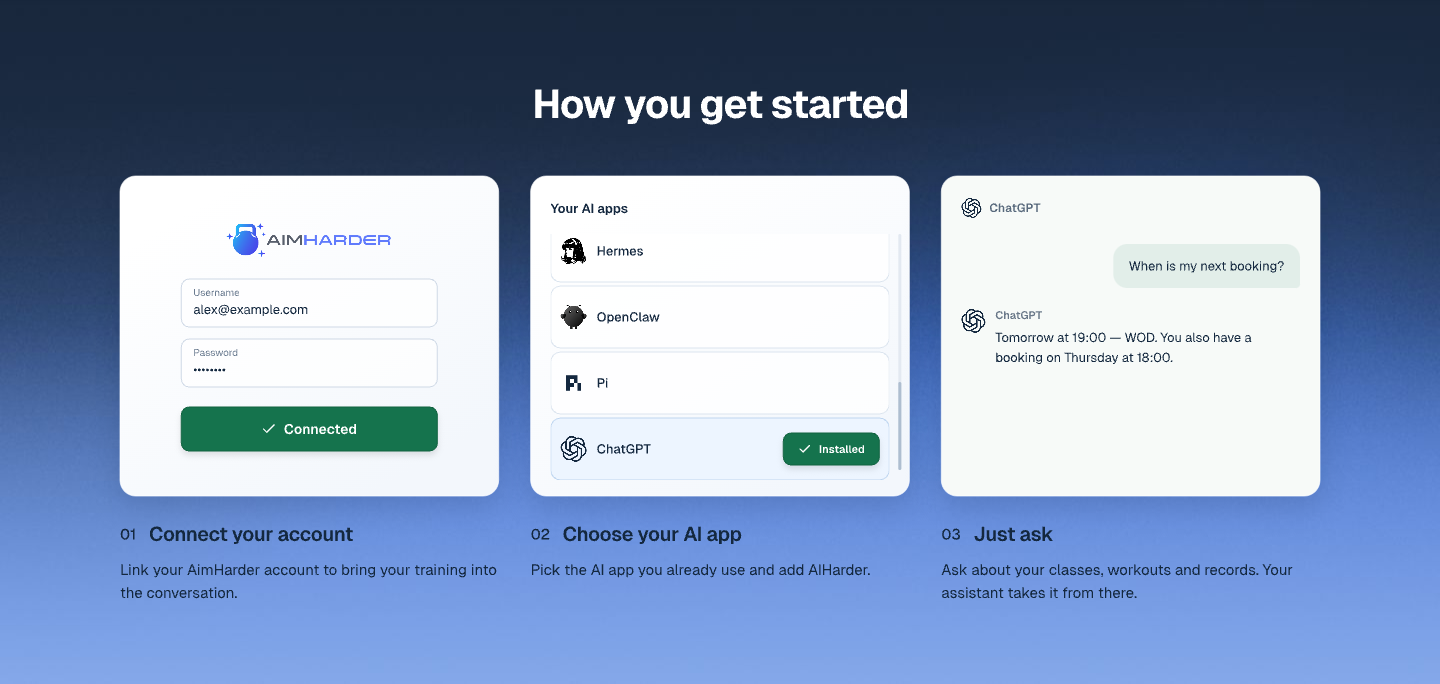
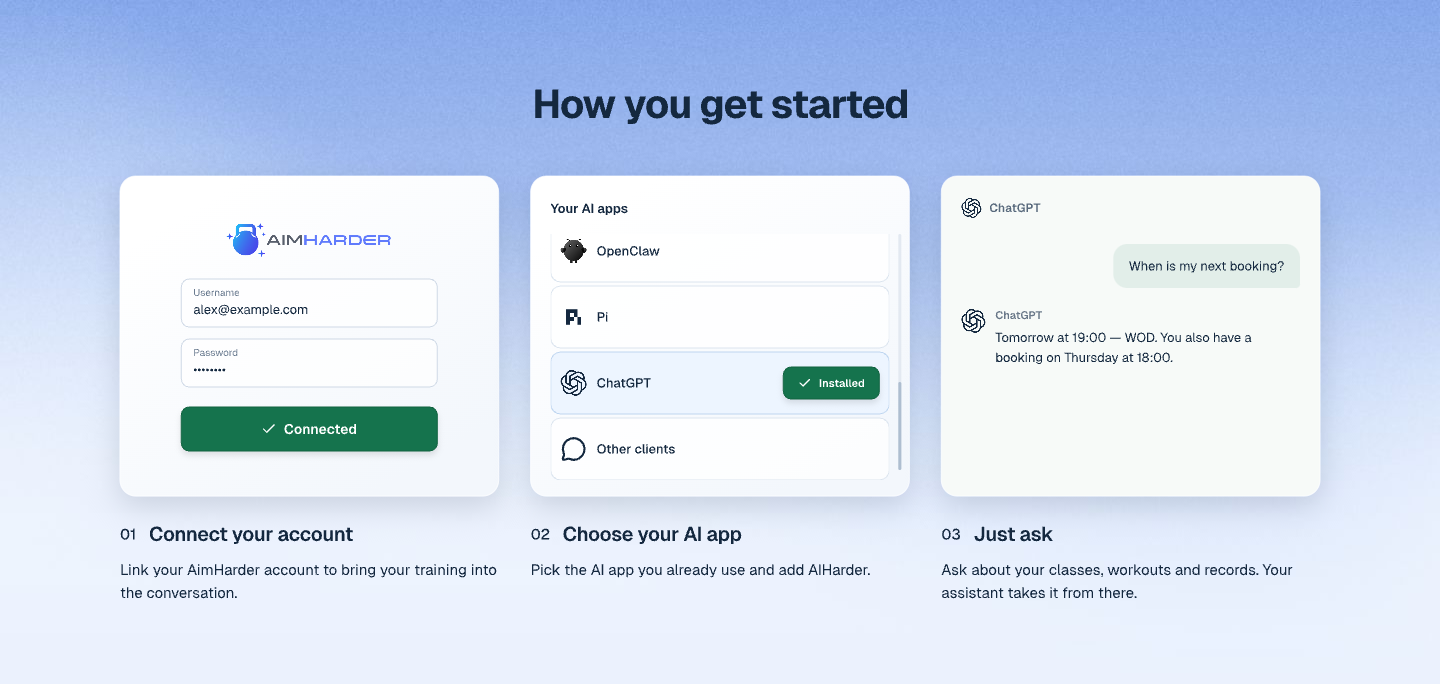
design: refine How to background cursor and client list #95

diff --git a/design/home-study/hero-motion-prototype.html b/design/home-study/hero-motion-prototype.html
@@ -6,4 +6,4 @@
 @media(max-width:1320px){.kettle{left:-60px;top:116px;width:300px;height:344px}.kettle img{width:435.13px;height:435.13px;left:-68px;top:-57.79px}.answer{width:300px}.ground{left:-36px;top:450px;width:266px}.ground::after{left:34px;width:198px}}
 @media(max-width:1150px){.hero{grid-template-columns:46% 1fr;gap:40px}h1{font-size:50px}.brand{font-size:20px}.utilities{gap:16px}.nav{gap:24px}.question{width:270px}.answer{width:300px}.kettle{left:-70px}.apps{gap:12px}.app{font-size:12px;gap:5px}}
 @media(max-width:850px){.container{width:calc(100% - 40px)}.header-inner{grid-template-columns:1fr auto;min-height:80px}.nav{display:none}.utilities{gap:16px}.language{display:none}.hero{display:block;padding-top:28px}.pitch{max-width:532px}.scene{height:520px;margin:32px auto 0;max-width:596px}.kettle{left:0;top:126px}.ground{top:460px}.question{right:0}.answer{right:0}.apps{flex-wrap:wrap}h1{font-size:44px}.header-signin{min-width:100px;padding:12px 18px}.brand{font-size:17px}.brand img{width:35px;height:40px}}
[2 lines of base64/hex data omitted]

diff --git a/design/home-study/how-to.css b/design/home-study/how-to.css
@@ -1,34 +1,35 @@
 .how-band {
-  --how-top: #14283f;
-  --how-bottom: #7ba9ef;
+  --how-heading: #14283f;
   --how-caption: #14283f;
   --how-description: #14283f;
   position: relative;
   isolation: isolate;
   overflow: hidden;
   padding: 80px 0;
-  background: linear-gradient(180deg, var(--how-top), var(--how-bottom));
+  background: #fff;
 }
 [data-theme=dark] .how-band {
-  --how-top: #080f1a;
-  --how-bottom: #174678;
+  --how-heading: #fff;
   --how-caption: #fff;
+  background: #0d1521;
   --how-description: #c8d8ec;
 }
-.how-backdrop { position: absolute; inset: 0; z-index: -2; opacity: .58; }
-[data-theme=dark] .how-backdrop { opacity: .4; }
+.how-backdrop { position: absolute; inset: 0; z-index: -2; opacity: .72; transform: scaleY(-1); background: linear-gradient(180deg, #e8f2ff, #87b8f1); }
+.how-backdrop .grainient-canvas { position: absolute; inset: 0; display: block; width: 100%; height: 100%; }
+[data-theme=dark] .how-backdrop { opacity: .55; background: linear-gradient(180deg, #0d1521, #174678); }
 .how-band::before {
   content: '';
   position: absolute;
   inset: 0;
   z-index: -1;
   pointer-events: none;
-  background: linear-gradient(180deg, var(--how-top), transparent 48%, var(--how-bottom));
+  background: linear-gradient(0deg, #e8f2ff, #e8f2ff00);
 }
+[data-theme=dark] .how-band::before { background: linear-gradient(0deg, #0d1521, #0d152100 22%); }
 .how-inner { width: calc(100% - 80px); max-width: 1200px; margin: auto; }
 .how-heading {
   margin: 0 0 48px;
-  color: #fff;
+  color: var(--how-heading);
   font-size: 40px;
   font-weight: 700;
   letter-spacing: -1px;
@@ -80,7 +81,7 @@
 .demo-action[data-action=success] { border-color: #116340; background: #15734d; color: #fff; }
 .demo-action .icon { width: 16px; height: 16px; }
 .demo-action[data-action=loading] .icon { animation: how-spin .8s linear infinite; }
-.demo-cursor { position: absolute; left: 0; top: 0; width: 25px; height: 25px; z-index: 5; pointer-events: none; filter: drop-shadow(0 1px 1px #fff) drop-shadow(0 2px 2px #14283f3d); transform-origin: 4px 3px; }
+.demo-cursor { position: absolute; left: 0; top: 0; width: 24px; height: 30px; z-index: 5; pointer-events: none; filter: drop-shadow(0 1px 1px #14283f40); transform-origin: 4px 3px; }
 .services-demo { padding: 20px 20px 0; }
 .services-heading { margin: 0 0 12px; font-size: 13px; font-weight: 600; line-height: 24px; }
 .services-window { height: 246px; overflow: hidden; position: relative; mask-image: linear-gradient(#000 0%, #000 94%, transparent); }
@@ -88,6 +89,7 @@
 .service-option { display: flex; align-items: center; gap: 10px; flex: none; height: 62px; padding: 10px; border: 1px solid #dce5ef; border-radius: 10px; background: #ffffffc9; }
 .service-option.is-hovered { background: #edf5ff; border-color: #bfd6f0; }
 .service-symbol { width: 26px; height: 26px; object-fit: contain; flex: none; }
+.service-symbol.icon { background-color: #14283f; }
 .service-name { font-size: 13px; font-weight: 500; white-space: nowrap; }
 .service-action { margin-left: auto; flex: none; width: 96px; height: 32px; font-size: 11px; opacity: 0; }
 .service-action .icon { width: 14px; height: 14px; }

diff --git a/design/home-study/how-to-prototype.js b/design/home-study/how-to-prototype.js
@@ -6,7 +6,7 @@ const inspect = params.has('howAt') ? Math.max(0, +params.get('howAt') || 0) : n
 const still = params.get('motion') === 'off' || reduced.matches || inspect !== null;
 const symbol = key => `assets/apps/${key === 'hermes' || key === 'openclaw' ? `${key}-selfhst-light.svg` : key === 'pi' ? 'pi-mono-light.png' : `${key}-light.png`}`;
 const icon = name => `<i class="icon" style="--icon:url('./assets/lucide/${name}.svg')" aria-hidden="true"></i>`;
-const cursor = `<img class="demo-cursor" src="assets/lucide/mouse-pointer-2.svg" alt="">`;
+const cursor = `<img class="demo-cursor" src="assets/cursor-macos-style.svg" alt="">`;
 section.innerHTML = `
   <div id="how-grainient" class="how-backdrop" aria-hidden="true"></div>
   <div class="how-inner">
@@ -26,7 +26,7 @@ section.innerHTML = `
       <figure class="how-step">
         <div class="how-preview" id="install-preview" role="img" aria-label="Illustrative animation: scroll through AI apps, choose ChatGPT, and install AIHarder.">
           <div class="services-demo" aria-hidden="true"><p class="services-heading">Your AI apps</p><div class="services-window"><div class="services-list">
-            ${[['claude','Claude'],['hermes','Hermes'],['openclaw','OpenClaw'],['pi','Pi'],['chatgpt','ChatGPT']].map(([key,name]) => `<div class="service-option" data-app="${key}"><img class="service-symbol" src="${symbol(key)}" alt=""><span class="service-name">${name}</span>${key === 'chatgpt' ? '<div class="demo-action service-action" data-action="ready">Install</div>' : ''}</div>`).join('')}
+            ${[['claude','Claude'],['hermes','Hermes'],['openclaw','OpenClaw'],['pi','Pi'],['chatgpt','ChatGPT'],['other','Other clients']].map(([key,name]) => `<div class="service-option" data-app="${key}">${key === 'other' ? '<i class="service-symbol icon" style="--icon:url(\'./assets/lucide/message-circle.svg\')"></i>' : `<img class="service-symbol" src="${symbol(key)}" alt="">`}<span class="service-name">${name}</span>${key === 'chatgpt' ? '<div class="demo-action service-action" data-action="ready">Install</div>' : ''}</div>`).join('')}
           </div></div></div><div class="service-track" aria-hidden="true"><div class="service-thumb"></div></div>${cursor}
         </div>
         <figcaption><div class="how-step-title"><span class="how-step-number">02</span><h3>Choose your AI app</h3></div><p class="how-step-description">Pick the AI app you already use and add AIHarder.</p></figcaption>

diff --git a/design/home-study/how-background-mount.js b/design/home-study/how-background-mount.js
@@ -7,11 +7,11 @@ const still = params.get('motion') === 'off' || params.has('howAt') ||
   !document.querySelector('#motion-status') || matchMedia('(prefers-reduced-motion: reduce)').matches;
 container.dataset.renderer = 'css-fallback';
 const dispose = mountGrainient(container, {
-  colors: dark ? ['#080f1a', '#174678'] : ['#14283f', '#0065e0'],
+  colors: [dark ? '#0d1521' : '#ffffff', '#0065e0'],
   angle: 180, flow: .8, silk: .5, grainAmount: .08,
   scale: 1.4, grainSize: 1.3, saturation: .99, stir: .95,
-  clickSwirl: false, intro: false, lightMode: false,
-  speed: still ? 0 : .65, grainAnimated: !still, interactive: false, dpr: 1,
+  clickSwirl: false, intro: false, lightMode: !dark,
+  speed: still ? 0 : 1, grainAnimated: !still, interactive: false, dpr: 1,
 });
 if (dispose) {
   container.dataset.renderer = 'webgl2';

diff --git a/design/home-study/how-to-study.md b/design/home-study/how-to-study.md
@@ -17,10 +17,10 @@ Full archived Refero style/screen records were retrieved before implementation. 
 
 ## Decisions
 
-- Reuse the app-integrated Grainient renderer and notice for this site's How to background. Light starts at navy `#14283f` and reaches the hero lower-edge blue, sampled around `#7ba9ef`. Dark uses a deeper `#080f1a` to `#174678` range. The title is white. Step captions use dark ink on the lighter lower Light area and light text in Dark.
+- Reuse the app-integrated Grainient renderer and notice for this site's How to background. The latest owner revision supersedes the first navy band: reuse the hero palette, alpha and wash, inverted vertically. Light runs from blue to pale blue, with a navy `#14283f` title. Dark also inverts the hero field and retains white text for contrast. Step captions use dark ink on the lighter lower Light area and light text in Dark.
 - Three equal columns share the existing 1200px content well. Each preview is 320px high, with a clear/light UI surface. Captions place the step number and title together, followed by provisional copy. The title has no subtitle.
 - Step 1: original AimHarder logo, a fictional `alex@example.com` username, password bullets, disabled → ready → loading → green/check action. The illustration cursor clicks the ready control. Content fades before values reset.
-- Step 2: a clipped five-service list starts with ChatGPT below the viewport. A cursor scrolls the list, hovers ChatGPT to reveal Install, clicks, then shows loading and green/check success. It resets through a fade.
+- Step 2: a clipped six-row list starts with ChatGPT below the viewport. “Other clients” follows ChatGPT with a generic Lucide message-circle. A cursor scrolls the list, hovers ChatGPT to reveal Install, clicks, then shows loading and green/check success. It resets through a fade.
 - Step 3: ChatGPT, Claude and Hermes each show a question, thinking dots and a plain-text assistant answer with the correct avatar. Provider tints distinguish them. Both messages fade before the next exchange.
 - Shared review Pause/Replay, reduced-motion/still mode, hidden-tab suspension and offscreen suspension apply. Native Pen represents editable stills of the key states; runtime animation stays in HTML.
 
@@ -43,3 +43,10 @@ JavaScript syntax, changed local references and asset hashes were checked. No ru
 ## Delivery review
 
 Two-axis review against `fa244c2...764b5ac`: **Standards 0 findings; Spec 0 findings**. A final local contrast check then darkened the Light descriptions to `#14283f` and removed step-number opacity; sampled caption-background contrast improved from 3.54:1 to 4.93:1 at y=558px. Native Light/Dark text treatment and exports were updated to match. This is the reviewable prototype checkpoint, not owner approval.
+
+## Owner refinement — 2026-11-02
+
+- Replaced the first navy background with the existing hero field inverted vertically, including the same theme colors, opacity, grain and wash. Light title is navy; Dark stays white over its inverted dark field. The earlier navy-to-blue brief/reference table records the initial iteration, superseded here.
+- Added **Other clients** immediately after ChatGPT in the second preview, using the existing Lucide `message-circle` icon. The list now scrolls 146px at desktop instead of 80px; cursor targeting follows measured row geometry.
+- Replaced the outlined Lucide pointer with a locally authored black arrow/white outline in the macOS style. This is an illustration, not an extracted system asset. Both demo pointers share it; the small white outline is part of the asset rather than a CSS halo. The owner's cursor request supersedes the earlier Lucide pointer choice; UI icons remain Lucide.
+- Native English desktop Light/Dark success stills were synchronized, with all 28 protected subtrees unchanged. Runtime inspection at the click frame confirmed the cursor tip inside Install with the added row. Native success stills intentionally have no cursor because it has already faded.

diff --git a/docs/product-experience.md b/docs/product-experience.md
@@ -1,6 +1,6 @@
 # Product experience design
 
-Home study checkpoint, 2026-11-02: English desktop Light/Dark now include the animated **How you get started** section after the question wall. The [directed study](../design/home-study/how-to-study.md) records the three fictional UI demos, source references, timings, editable Pen success stills and browser checks. FAQ/closing/footer drafts and the other six variants remain frozen. Captions and owner motion/visual acceptance remain pending; this does not implement live authentication, app installation or production frontend behavior. Existing architecture/security/scope ADRs are unaffected.
+Home study checkpoint, 2026-11-02: English desktop Light/Dark now include the animated **How you get started** section after the question wall. The latest refinement reuses the vertically inverted hero background, a navy title in Light, a macOS-style demo cursor and an “Other clients” row after ChatGPT. The [directed study](../design/home-study/how-to-study.md) records the three fictional UI demos, source references, timings, editable Pen success stills and browser checks. FAQ/closing/footer drafts and the other six variants remain frozen. Captions and owner motion/visual acceptance remain pending; this does not implement live authentication, app installation or production frontend behavior. Existing architecture/security/scope ADRs are unaffected.
 
 Working-name update, 2026-10-31: the owner selected **AIHarder** without CONNECT to reduce intrusion on the upstream brand. The technical package/repository names remain unchanged. The owner also narrowed visual iteration to English desktop Light/Dark only; Spanish/mobile propagation waits for agreement. The [active desktop design study](../design/home-study/desktop-refinement.md) records the three-part header, exact revised introduction, integrated monochrome client logos, original Hermes portrait and two button-depth proposals. The following AimHarder Connect checkpoints remain historical.
 

diff --git a/design/home-study/README.md b/design/home-study/README.md
@@ -1,6 +1,6 @@
 # AIHarder — public home study
 
-**Current section — 2026-11-02:** Added **How you get started** after the question wall in the English desktop Light/Dark studies. It uses the inverted navy-to-blue Grainient band and three looping interface demonstrations: account connection, app installation, and questions answered by ChatGPT/Claude/Hermes. Captions remain provisional. The Pen foreground is editable at a success still; HTML owns animation. FAQ/closing/footer remain disabled drafts and the other six variants remain frozen. [Study and verification](how-to-study.md) · [Checks](how-to-checks.json). This extends the three-section replica checkpoint below; its checks remain historical evidence for the earlier sections.
+**Current section — 2026-11-02:** Added **How you get started** after the question wall in the English desktop Light/Dark studies. It uses the hero Grainient field inverted vertically (blue to pale blue in Light), a navy Light heading and three looping interface demonstrations: account connection, app installation, and questions answered by ChatGPT/Claude/Hermes. Captions remain provisional. The Pen foreground is editable at a success still; HTML owns animation. FAQ/closing/footer remain disabled drafts and the other six variants remain frozen. [Study and verification](how-to-study.md) · [Checks](how-to-checks.json). This extends the three-section replica checkpoint below; its checks remain historical evidence for the earlier sections.
 
 [Animated Light](https://mini.taild6f227.ts.net:8443/aimharder-home-95/home-study/hero-motion-prototype.html?theme=light&reply=long#how-it-works) · [Animated Dark](https://mini.taild6f227.ts.net:8443/aimharder-home-95/home-study/hero-motion-prototype.html?theme=dark&reply=long#how-it-works) · [Pen Light section](previews/how-to-pen/ZLrrd.png) · [Pen Dark section](previews/how-to-pen/I95ri7.png).
 

diff --git a/design/home-study/assets/README.md b/design/home-study/assets/README.md
@@ -66,3 +66,5 @@ The current flat SVGs and their `pen/` PNG derivatives now have a transparent ci
 The three animated interface demos reuse the existing original AimHarder and app symbols. Their inner panels stay light in both page appearances. New pointer/loading UI icons come from the same Lucide static 0.468.0 package and retain its existing ISC notice. No new logo artwork was generated.
 
 `pen/how-background-light.png` and `pen/how-background-dark.png` are 1440 × 683 background-only still captures of [render-how-background.html](../render-how-background.html). Browser JPEG captures were decoded and saved as genuine PNGs; no foreground UI is baked in. The same app-integrated React Bits notice applies. See [sources.json](sources.json) for relationships and SHA-256 hashes.
+
+How to owner refinement (2026-11-02): the two How to background PNGs now capture the current hero palette/wash inverted vertically, replacing the first navy field. The demo uses locally authored `cursor-macos-style.svg` (black arrow/white outline, not an Apple system-asset extraction). The previous Lucide pointer remains archived; loading/check/chat UI icons still use Lucide. `Other clients` reuses the existing `message-circle.svg`.
